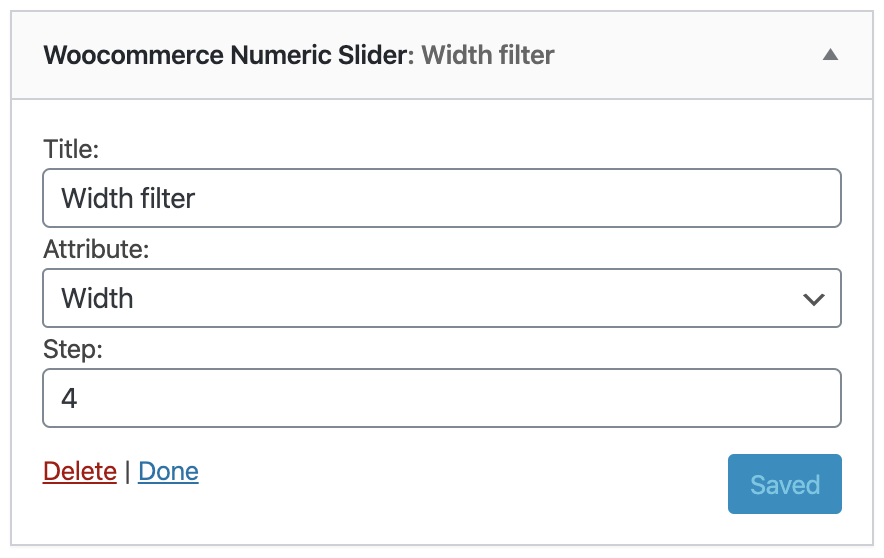
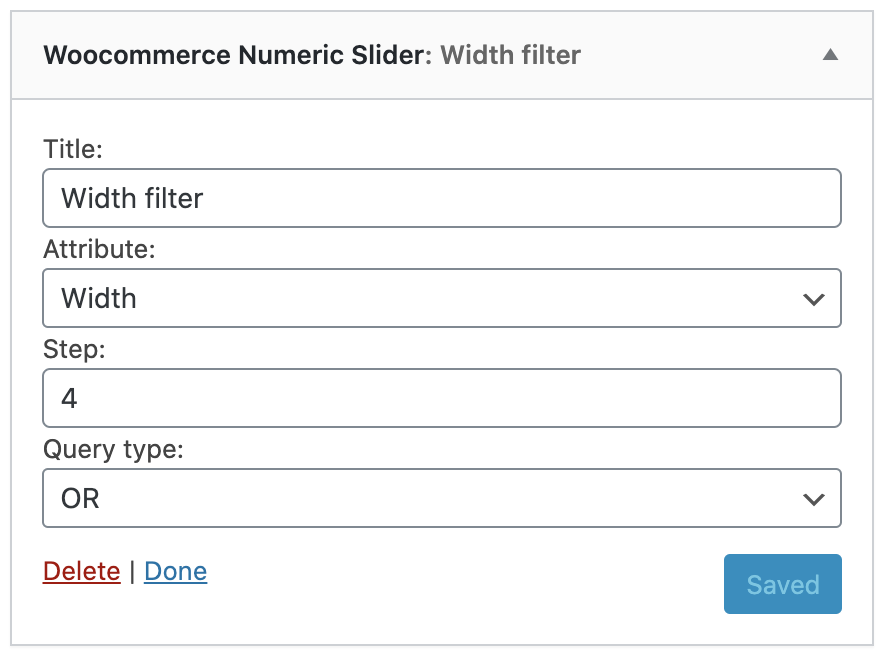
add query type in form

Changed region(s): [[0.0, 0.0, 1.0, 1.0]]

diff --git a/woo-num-slider.php b/woo-num-slider.php
@@ -4,7 +4,7 @@
  * Plugin Name: Woocommerce Numeric Slider
  * Plugin URI: https://alessiofalai.it
  * Description: A simple widget to filter Woocommerce products by a numeric attribute using a slider.
- * Version: 0.1.2
+ * Version: 0.2.0
  * Author: Alessio Falai
  * Author URI: https://alessiofalai.it
  * Text Domain: woo-num-slider
@@ -63,6 +63,7 @@ class Woo_Num_Slider extends WP_Widget
 		$attribute = !empty($instance['attribute']) ? $instance['attribute'] : $default_title;
 		$title = !empty($instance['title']) ? $instance['title'] : $attribute;
 		$step = !empty($instance['step']) ? $instance['step'] : 5;
+		$query = !empty($instance['query']) ? $instance['query'] : 'AND';
 ?>
 		<p>
 			<label for="<?php echo $this->get_field_id('title'); ?>"><?php _e('Title', 'woo-num-slider'); ?>:</label>
@@ -75,6 +76,11 @@ class Woo_Num_Slider extends WP_Widget
 			</select>
 			<label for="<?php echo $this->get_field_id('step'); ?>"><?php _e('Step', 'woo-num-slider'); ?>:</label>
 			<input class="widefat" id="<?php echo $this->get_field_id('step'); ?>" name="<?php echo $this->get_field_name('step'); ?>" type="number" value="<?php echo esc_attr($step); ?>">
+			<label for="<?php echo $this->get_field_id('query'); ?>"><?php _e('Query type', 'woo-num-slider'); ?>:</label>
+			<select class="widefat" id="<?php echo $this->get_field_id('query'); ?>" name="<?php echo $this->get_field_name('query'); ?>">
+				<option <?php selected($query, "AND"); ?> value="AND">AND</option>
+				<option <?php selected($query, "OR"); ?> value="OR">OR</option>
+			</select>
 		</p>
 	<?php
 	}
@@ -86,6 +92,7 @@ class Woo_Num_Slider extends WP_Widget
 		$instance['title'] = strip_tags($new_instance['title']);
 		$instance['attribute'] = $new_instance['attribute'];
 		$instance['step'] = $new_instance['step'];
+		$instance['query'] = $new_instance['query'];
 		return $instance;
 	}
 
@@ -102,7 +109,7 @@ class Woo_Num_Slider extends WP_Widget
 		$attribute = $attributes[$instance['attribute']];
 		$terms = get_terms('pa_' . $attribute->attribute_name);
 
-		// If there are not posts and we're not filtering, hide the widget
+		// If there are no posts and we're not filtering, hide the widget
 		$min_value_key = $attribute->attribute_name . '_min_value';
 		$max_value_key = $attribute->attribute_name . '_max_value';
 		if (!WC()->query->get_main_query()->post_count && !isset($_GET[$min_value_key]) && !isset($_GET[$max_value_key])) {
@@ -148,6 +155,10 @@ class Woo_Num_Slider extends WP_Widget
 			$form_action = preg_replace('%\/page/[0-9]+%', '', home_url(trailingslashit($wp->request)));
 		}
 
+		// Get query type info
+		$query_key = 'query';
+		$query = $instance['query'];
+
 		// Show the form
 		$id = 'woo_num_slider_' . $attribute->attribute_name;
 	?>
@@ -157,11 +168,12 @@ class Woo_Num_Slider extends WP_Widget
 				<div class="woo_num_slider_amount" style="line-height: 2.4em; text-align: right;">
 					<input type="hidden" id="<?php echo $min_value_key; ?>" name="<?php echo $min_value_key; ?>" value="<?php echo esc_attr($current_min_value); ?>" data-min="<?php echo esc_attr($min_value); ?>" placeholder="<?php echo esc_attr__('Min value', 'woocommerce'); ?>" />
 					<input type="hidden" id="<?php echo $max_value_key; ?>" name="<?php echo $max_value_key; ?>" value="<?php echo esc_attr($current_max_value); ?>" data-max="<?php echo esc_attr($max_value); ?>" placeholder="<?php echo esc_attr__('Max value', 'woocommerce'); ?>" />
+					<input type="hidden" id="<?php echo $query_key; ?>" name="<?php echo $query_key; ?>" value="<?php echo esc_attr($query); ?>" placeholder="<?php echo esc_attr__('Query type', 'woo-num-slider'); ?>" />
 					<button type="submit" class="button" style="padding: 10px 30px; line-height: 13px; float: left;"><?php echo esc_html__('Filter', 'woocommerce'); ?></button>
 					<div class="woo_num_label price_label">
 						<?php echo esc_html__('Value', 'woo-num-slider'); ?>: <span class="from"><?php echo $current_min_value; ?></span> &mdash; <span class="to"><?php echo $current_max_value; ?></span>
 					</div>
-					<?php echo wc_query_string_form_fields(null, array($min_value_key, $max_value_key, 'paged'), '', true); ?>
+					<?php echo wc_query_string_form_fields(null, array($min_value_key, $max_value_key, $query_key, 'paged'), '', true); ?>
 					<div class="clear"></div>
 				</div>
 			</div>
@@ -223,8 +235,12 @@ class Woo_Num_Slider extends WP_Widget
 			return explode('_', $key)[0];
 		}, array_keys($min_value_keys));
 
+		// Get query type
+		$query = 'AND';
+		if (isset($_GET['query'])) $query = $_GET['query'];
+
 		// Compose tax query
-		$tax_query = array('relation' => 'AND');
+		$tax_query = array('relation' => $query);
 		foreach ($attribute_names as $key => $attribute_name) {
 			$min_value = to_numerical($_GET[$attribute_name . '_min_value']);
 			$max_value = to_numerical($_GET[$attribute_name . '_max_value']);

diff --git a/README.md b/README.md
@@ -7,13 +7,13 @@ When you are working with Woocommerce, you can define some product's _attributes
 
 ## Installation
 
-1. [Download the plugin](https://github.com/Wadaboa/woo-num-slider/archive/master.zip)
+1. [Download the plugin](https://github.com/Wadaboa/woo-num-slider/archive/master.zip) from the provided link or from the _Releases_ page
 2. Upload the plugin to `/wp-content/plugins/` or use the WordPress plugin uploader
 3. Activate the plugin
 
 ## Usage
 
-To use the widget, open your Wordpress admin page, go to **Aspect**, then **Widgets**. Here you have to find the **Woocommerce Numeric Slider** widget and add it to the area of your choice (usually the shop sidebar). Once you added the widget, you will be prompted by this kind of interface: 
+To use the widget, open your Wordpress admin page, go to **Aspect**, then **Widgets**. Here you have to find the **Woocommerce Numeric Slider** widget and add it to the area of your choice (usually the shop sidebar). Once you added the widget, you will be prompted by this kind of interface:
 
 ![Widget Form](img/widget-form.png)
 
@@ -21,16 +21,18 @@ In here, you have to select the attribute you want to use to filter the products
 
 ![Widget UI](img/widget-ui.png)
 
-
 ## Features
 
-* It lets you filter Woocommerce products by a numeric attribute, using a `from` - `to` slider
-* It lets you choose the attribute you want to filter with on the widget page (no need to get you hands dirty with code)
-* It uses the same styles as the **Filter Products by Price** Woocommerce widget, so it should be compatible with most available themes (FYI, the slider has been extensively tested with the **ShopIsle** theme)
-* You can include more than one filter on the same page to filter by different attributes
+- It lets you filter Woocommerce products by a numeric attribute, using a `from` - `to` slider
+- It lets you choose the attribute you want to filter with on the widget page (no need to get you hands dirty with code)
+- It uses the same styles as the **Filter Products by Price** Woocommerce widget, so it should be compatible with most available themes (FYI, the slider has been extensively tested with the **ShopIsle** theme)
+- You can include more than one filter on the same page to filter by different attributes
+
+**NOTE**: If you want to filter products using more than one `Woocommerce Numeric Slider`, consider the `Query type` option in the widgets configuration. By setting the option to `OR` for each and every widget, you'll obtain a disjunctive query, while setting the option to `AND` (the default value) will give a conjunctive result.
 
 ## References
 
 My inspiration comes from the following resources:
-* [`WooCommerce Attribute Range Filter`](https://github.com/anttiviljami/woocommerce-attribute-range-filter)
-* [`Filter Products by Price`](https://github.com/woocommerce/woocommerce/blob/master/includes/widgets/class-wc-widget-price-filter.php)
+
+- [`WooCommerce Attribute Range Filter`](https://github.com/anttiviljami/woocommerce-attribute-range-filter)
+- [`Filter Products by Price`](https://github.com/woocommerce/woocommerce/blob/master/includes/widgets/class-wc-widget-price-filter.php)
